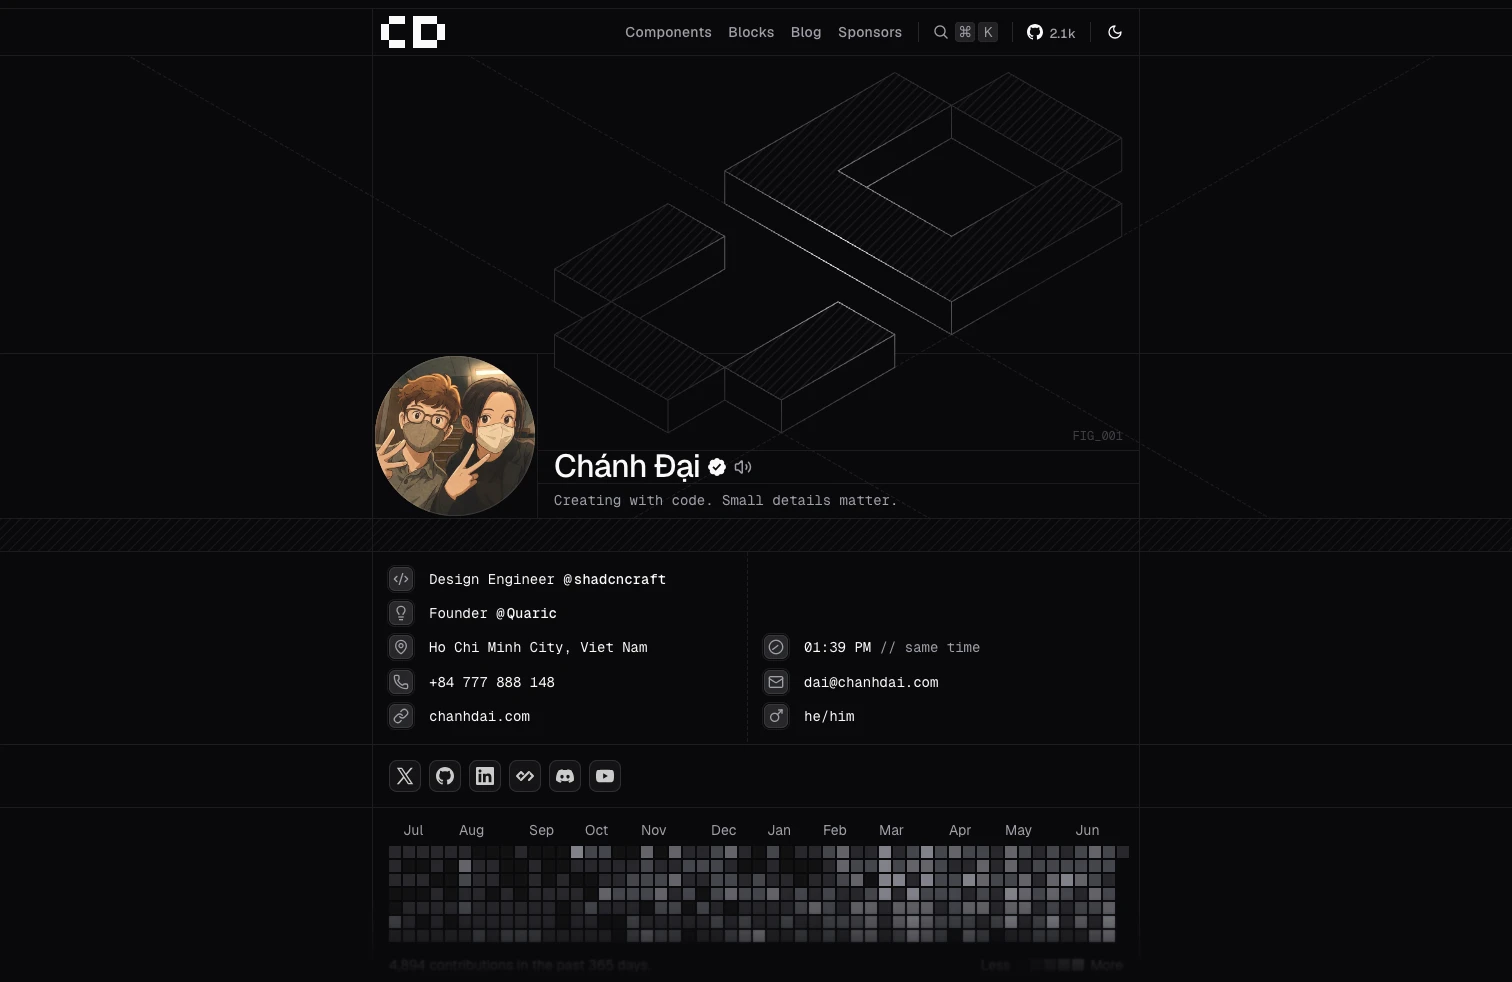
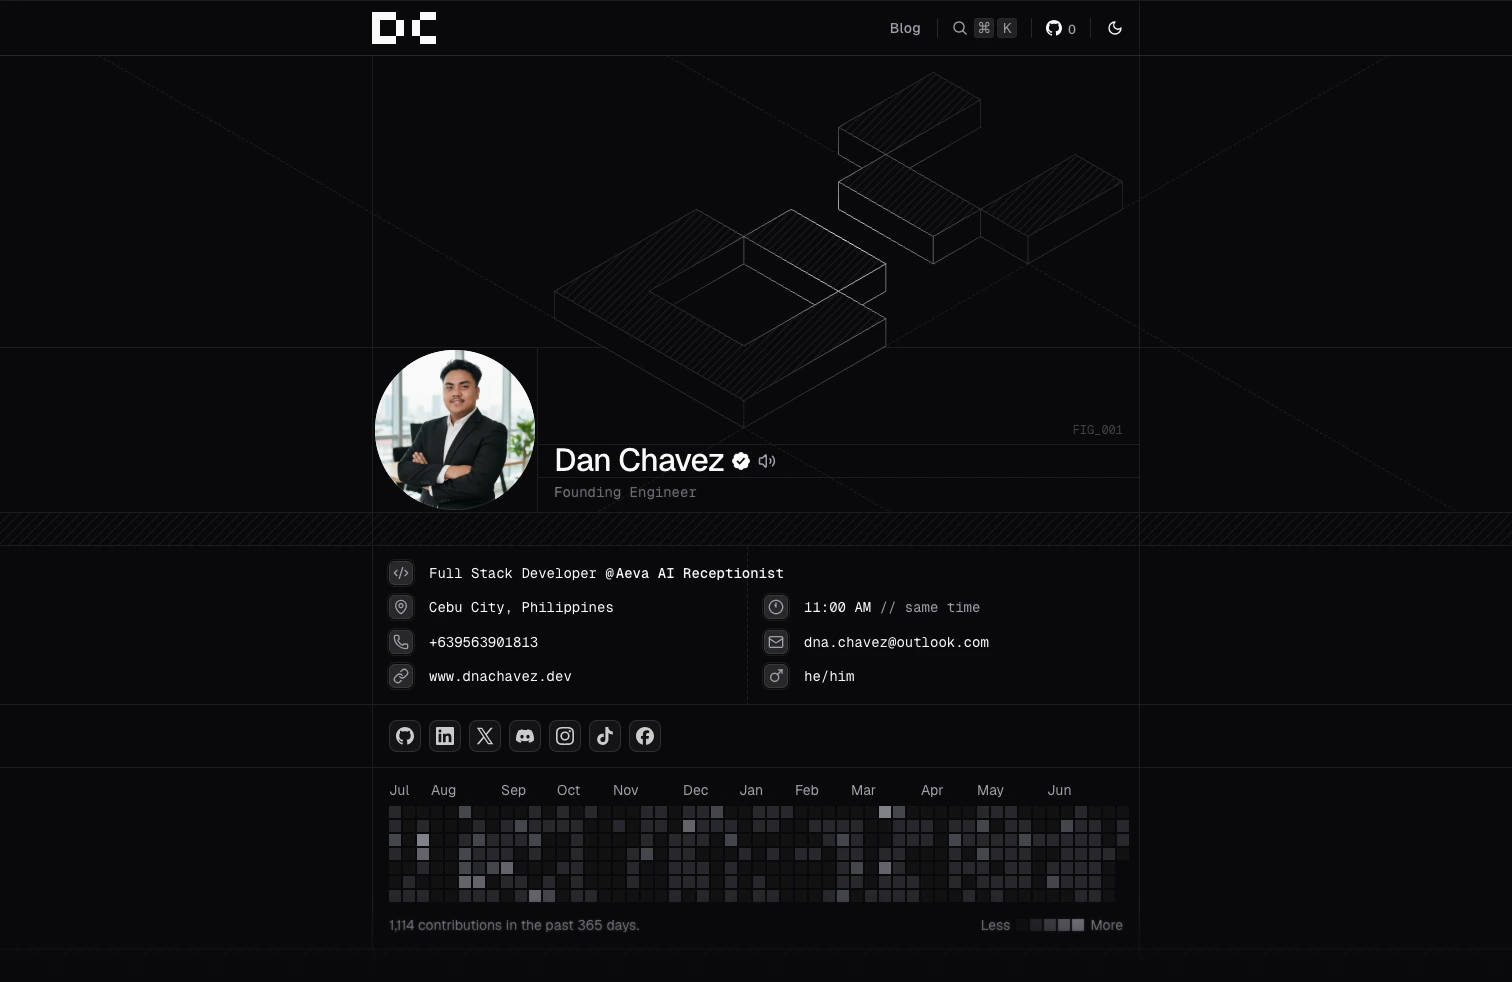
chore: replace remaining original-author branding with Dan Chavez
- Swap profile avatar for Dan Chavez headshot (dnachavez-avatar.webp);
  remove original author's light/dark avatar variants and Ghibli avatar
- Regenerate OG image and PWA desktop/mobile screenshots from the updated
  "DC" mark and personalized profile
- Point llms.txt and llms-full.txt headers at dnachavez.dev
- Update site metadata (authors, creator), PWA manifest name, footer
  spinner text, and site config URLs to Dan Chavez / dnachavez.dev

diff --git a/src/features/portfolio/data/user.ts b/src/features/portfolio/data/user.ts
@@ -48,12 +48,12 @@ export const USER: User = {
 - Graduated **Magna Cum Laude** (1.44 GPA), B.S. in Computer Science — University of Southern Philippines Foundation
 <p class="text-muted-foreground">* Metrics based on production data during tenure; actual current figures may vary.</p>
 `,
-  avatar: "/images/chanhdai-avatar-ghibli.webp",
+  avatar: "/images/dnachavez-avatar.webp",
   avatarVariants: {
-    lightOff: "/images/avatar-light-off.webp",
-    lightOn: "/images/avatar-light-on.webp",
-    darkOff: "/images/avatar-dark-off.webp",
-    darkOn: "/images/avatar-dark-on.webp",
+    lightOff: "/images/dnachavez-avatar.webp",
+    lightOn: "/images/dnachavez-avatar.webp",
+    darkOff: "/images/dnachavez-avatar.webp",
+    darkOn: "/images/dnachavez-avatar.webp",
   },
   ogImage: "/images/screenshot-og-image-dark.png",
   namePronunciationUrl: "/audio/chanhdai.mp3",

diff --git a/src/app/(llms)/llms-full.txt/route.ts b/src/app/(llms)/llms-full.txt/route.ts
@@ -81,7 +81,7 @@ async function getBlogContent() {
 async function getContent() {
   return `<SYSTEM>This document contains comprehensive information about ${USER.displayName}'s professional profile, portfolio, and blog content. It includes personal details, work experience, projects, achievements, certifications, and all published blog posts. This data is formatted for consumption by Large Language Models (LLMs) to provide accurate and up-to-date information about ${USER.displayName}'s background, skills, and expertise as a Design Engineer.</SYSTEM>
 
-# chanhdai.com
+# dnachavez.dev
 
 > A pixel-perfect dev portfolio showcasing my work as a Design Engineer.
 

diff --git a/src/config/site.ts b/src/config/site.ts
@@ -6,7 +6,7 @@ import { USER } from "@/features/portfolio/data/user"
 
 export const SITE_INFO = {
   name: USER.displayName,
-  url: process.env.NEXT_PUBLIC_APP_URL || "https://chanhdai.com",
+  url: process.env.NEXT_PUBLIC_APP_URL || "https://dnachavez.dev",
   ogImage: USER.ogImage,
   description: USER.bio,
   keywords: USER.keywords,
@@ -43,5 +43,5 @@ export const SOURCE_CODE_GITHUB_REPO = "ncdai/chanhdai.com"
 export const SOURCE_CODE_GITHUB_URL = "https://github.com/ncdai/chanhdai.com"
 
 export const UTM_PARAMS = {
-  utm_source: "chanhdai.com",
+  utm_source: "dnachavez.dev",
 }

diff --git a/src/app/layout.tsx b/src/app/layout.tsx
@@ -48,11 +48,11 @@ export const metadata: Metadata = {
   keywords: SITE_INFO.keywords,
   authors: [
     {
-      name: "ncdai",
+      name: "dnachavez",
       url: SITE_INFO.url,
     },
   ],
-  creator: "ncdai",
+  creator: "dnachavez",
   openGraph: {
     siteName: SITE_INFO.name,
     url: "/",

diff --git a/src/components/site-footer-built-by-spinner.tsx b/src/components/site-footer-built-by-spinner.tsx
@@ -5,7 +5,7 @@ import { useTheme } from "next-themes"
 
 import { SpinningCircularText } from "@/components/spinning-circular-text"
 
-const TEXT = "CRAFTED WITH CARE BY NCDAI • "
+const TEXT = "CRAFTED WITH CARE BY DNACHAVEZ • "
 const DURATION = 4
 
 export function SiteFooterBuiltBySpinner() {

diff --git a/src/app/(llms)/llms.txt/route.ts b/src/app/(llms)/llms.txt/route.ts
@@ -3,7 +3,7 @@ import { getBlogPosts } from "@/features/doc/data/documents"
 
 const allPosts = getBlogPosts()
 
-const content = `# chanhdai.com
+const content = `# dnachavez.dev
 
 > A pixel-perfect dev portfolio showcasing my work as a Design Engineer.
 
